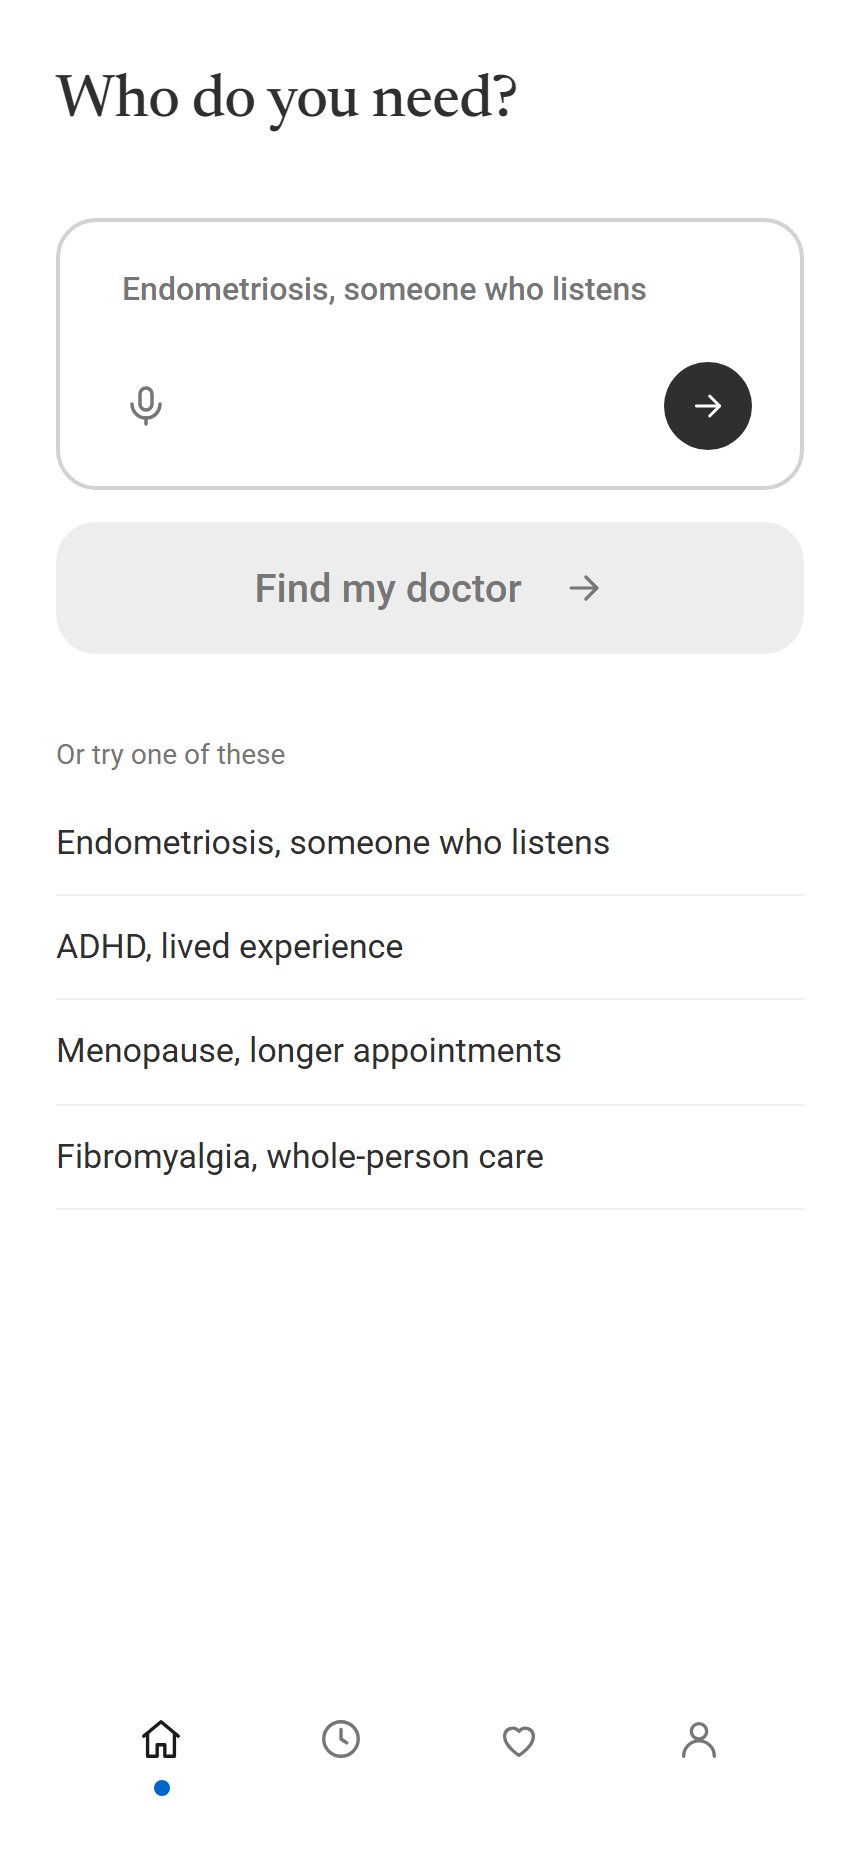
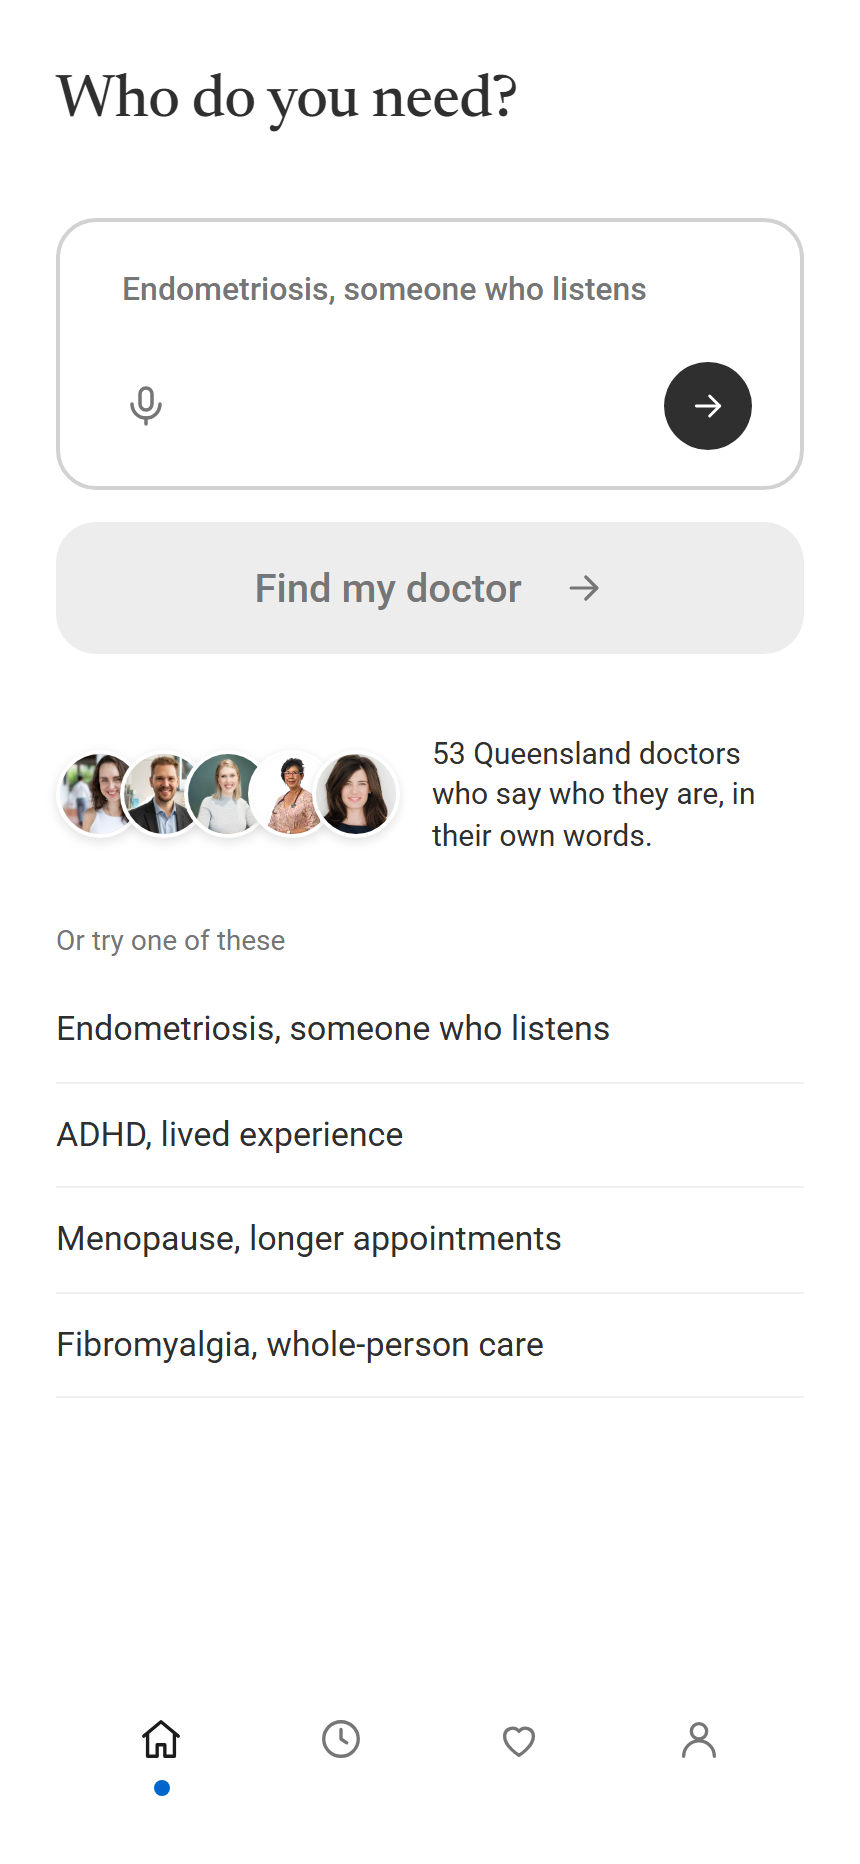
ui: faces strip on home (five practice portraits, count of doctors with their own words); disclosures animate open and closed

diff --git a/src/ui/screens/patient-a/Home.tsx b/src/ui/screens/patient-a/Home.tsx
@@ -2,6 +2,7 @@
 // P02 Home (225:17): greeting + avatar, the sentence field with mic and send, "Try" examples,
 // "Recent" rows, "Find my doctor" CTA over the tab bar. Submit runs POST /api/match and goes
 // straight to /results (one field, one gate, then cards) with the response parked under a request id.
+import Link from "next/link";
 import { useRouter } from "next/navigation";
 import { useEffect, useRef, useState } from "react";
 import { ArrowRight, Clock, Cta, Divider, FieldBox, Gap, Row, Screen, SectionTitle, TabBar, Title, Mic, initialsOf } from "@/src/ui/kit";
@@ -18,7 +19,9 @@ function speechCtor(): RecognitionCtor | null {
   return w.SpeechRecognition ?? w.webkitSpeechRecognition ?? null;
 }
 
-export function Home() {
+export type Face = { id: string; name: string; url: string };
+
+export function Home({ faces = [], count = 0 }: { faces?: Face[]; count?: number }) {
   const router = useRouter();
   const [name, setNameState] = useState<string | null>(null);
   const [text, setText] = useState("");
@@ -137,6 +140,17 @@ export function Home() {
         Find my doctor
       </Cta>
       <Gap h={40} />
+      {faces.length > 0 ? (
+        <Link href="/results?all=1" className="press press-soft mb-8 flex items-center gap-4" onClick={(e) => { e.preventDefault(); void submit("Someone who listens"); }}>
+          <span className="flex shrink-0 -space-x-3">
+            {faces.map((f, i) => (
+              // eslint-disable-next-line @next/next/no-img-element
+              <img key={f.id} src={f.url} alt="" referrerPolicy="no-referrer" className="rise size-11 rounded-full border-2 border-white object-cover object-top shadow-[0_2px_6px_rgba(0,0,0,0.12)]" style={{ "--i": i, background: "#e9e9e9" } as React.CSSProperties} />
+            ))}
+          </span>
+          <span className="text-[15px] leading-snug text-charcoal">{count} Queensland doctors who say who they are, in their own words.</span>
+        </Link>
+      ) : null}
       <p className="text-[14px] text-grey">Or try one of these</p>
       <Gap h={8} />
       {EXAMPLES.map((ex) => (

diff --git a/app/page.tsx b/app/page.tsx
@@ -1,7 +1,20 @@
-import { Home } from "@/src/ui/screens/patient-a/Home";
+import { getDoctors } from "@/src/data/providers";
+import { Home, type Face } from "@/src/ui/screens/patient-a/Home";
 
 export const metadata = { title: "Wattle" };
+export const revalidate = 3600;
 
-export default function HomePage() {
-  return <Home />;
+/** Five doctors with a published profile and a practice portrait, in a stable order. */
+async function faces(): Promise<Face[]> {
+  const all = await getDoctors();
+  return all
+    .filter((d) => d.photo && d.personal?.status === "published")
+    .sort((a, b) => a.id.localeCompare(b.id))
+    .filter((_, i) => i % 7 === 0)
+    .slice(0, 5)
+    .map((d) => ({ id: d.id, name: d.name.display, url: d.photo!.url }));
+}
+
+export default async function HomePage() {
+  return <Home faces={await faces()} count={(await getDoctors()).filter((d) => d.personal?.status === "published").length} />;
 }

diff --git a/src/ui/kit/bits.tsx b/src/ui/kit/bits.tsx
@@ -114,7 +114,9 @@ export function Disclosure({ title, sub, children, defaultOpen = false, tint }: 
         </span>
         <ChevronRight size={18} className={cx("shrink-0 text-grey transition-transform duration-200", open && "rotate-90")} style={{ transitionTimingFunction: "var(--ease-out)" }} />
       </button>
-      {open ? <div className="rise pb-4">{children}</div> : null}
+      <div className="grid transition-[grid-template-rows] duration-300" style={{ gridTemplateRows: open ? "1fr" : "0fr", transitionTimingFunction: "var(--ease-out)" }}>
+        <div className="min-h-0 overflow-hidden">{open ? <div className="rise pb-4">{children}</div> : null}</div>
+      </div>
     </div>
   );
 }
